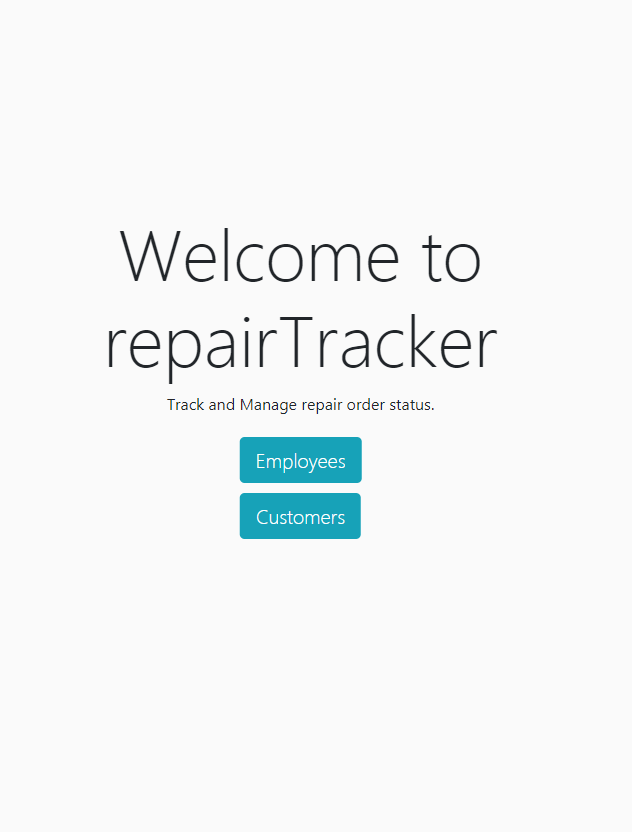
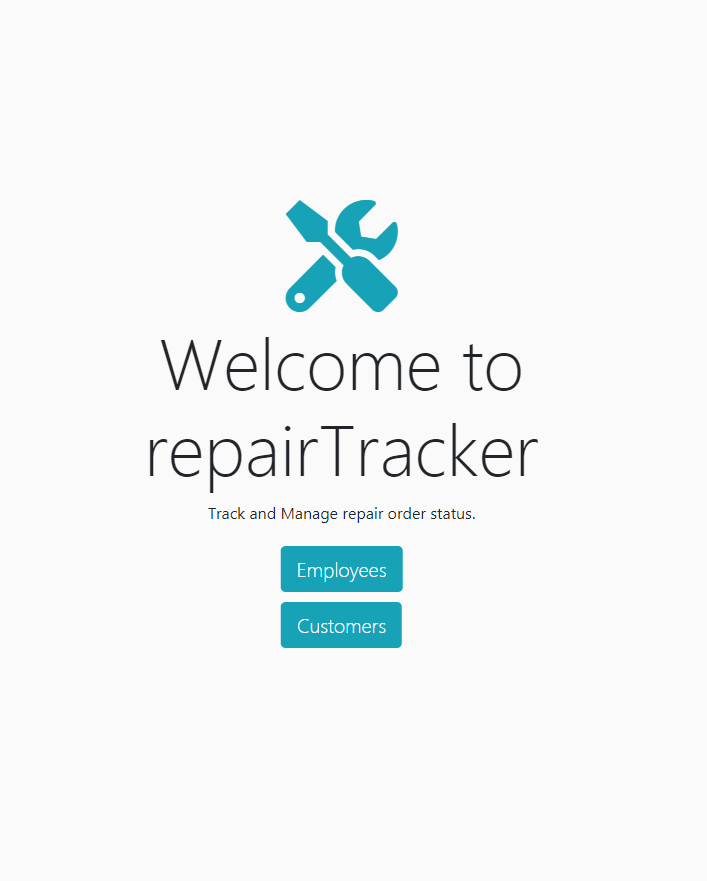
new screenshots

Changed region(s): [[0.1503, 0.2188, 0.7816, 0.75], [0.6614, 0.2812, 0.7816, 0.3438]]

diff --git a/public/tracker.html b/public/tracker.html
@@ -2,12 +2,14 @@
 <html lang="en">
 <head>
     <meta charset="UTF-8">
-	<link rel="stylesheet" href="./assets/css/style.css" type="text/css" />
-	<link rel="stylesheet" href="https://stackpath.bootstrapcdn.com/bootstrap/4.5.2/css/bootstrap.min.css"
-		integrity="sha384-JcKb8q3iqJ61gNV9KGb8thSsNjpSL0n8PARn9HuZOnIxN0hoP+VmmDGMN5t9UJ0Z" crossorigin="anonymous">
-	<title>Track Order Status</title>
-	<script src="https://code.jquery.com/jquery.js"></script>
-	<script src="/assets/js/orders.js"></script>
+    <link rel="stylesheet" href="./assets/css/style.css" type="text/css" />
+    <link rel="stylesheet" href="https://stackpath.bootstrapcdn.com/bootstrap/4.5.2/css/bootstrap.min.css">
+    <title>Tracker Order Status</title>
+    <script src="https://code.jquery.com/jquery-3.5.1.slim.min.js"></script>
+    <script src="https://cdn.jsdelivr.net/npm/popper.js@1.16.1/dist/umd/popper.min.js"></script>
+    <script src="https://stackpath.bootstrapcdn.com/bootstrap/4.5.2/js/bootstrap.min.js"></script>
+    <script src="/assets/js/orders.js"></script>
+    <script src="https://kit.fontawesome.com/6337599472.js"></script>
 </head>
 <body class="bg">
 	<div class="centered text-center">
